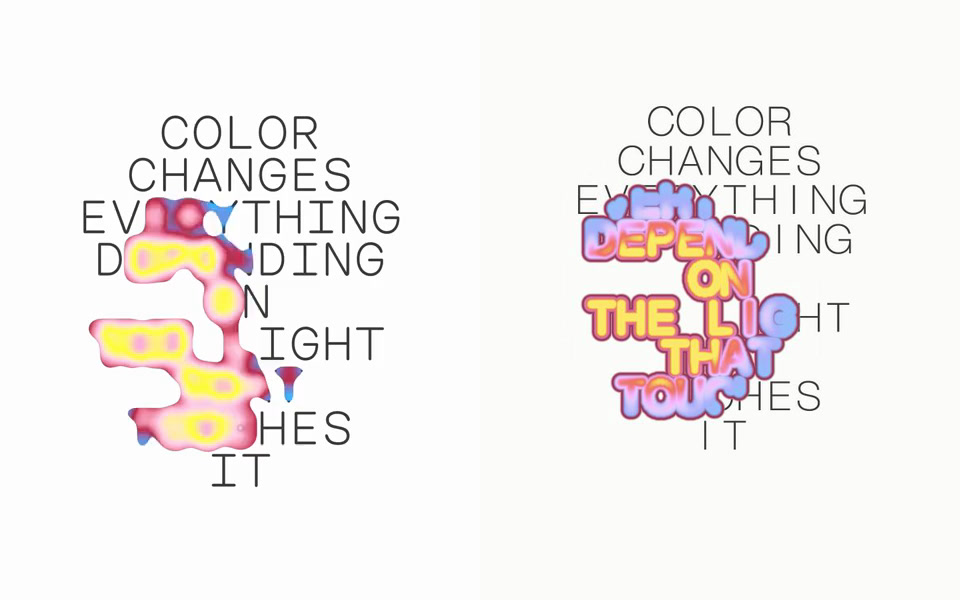
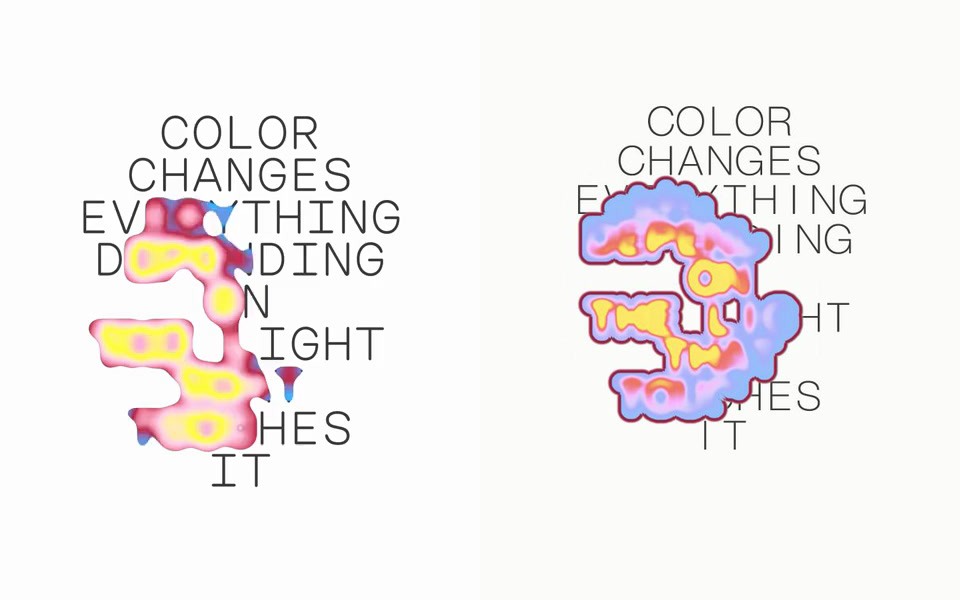
fix: diffuse light without revealing glyphs

Changed region(s): [[0.5938, 0.27, 0.8438, 0.72]]

diff --git a/pages/color-changes/script.ts b/pages/color-changes/script.ts
@@ -6,7 +6,7 @@ const ART_HEIGHT = 600;
 const TEXTURE_SCALE = 3;
 const FIELD_WIDTH = ART_WIDTH;
 const FIELD_HEIGHT = ART_HEIGHT;
-const COLOR_BLUR_TAPS = 8;
+const COLOR_BLUR_TAPS = 12;
 // Coverage stops at 10.2 artwork pixels, so a local 16→1 flood is sufficient.
 const JFA_JUMPS = [16, 8, 4, 2, 1, 1];
 const searchParams = new URLSearchParams(window.location.search);
@@ -27,9 +27,9 @@ const state = {
   radiusYBelow: 180,
   lightFalloff: 0.12,
   seedThreshold: 0.085,
-  bodyRadius: 10.2,
+  bodyRadius: 13.4,
   rimWidth: 3.6,
-  colorBlurSigma: 4.0,
+  colorBlurSigma: 6.0,
   colorBlurStep: 1.0,
   colorFloor: 0.055,
   colorRange: 0.64,
@@ -368,6 +368,16 @@ const finalMaterial = new THREE.ShaderMaterial({
       return fract(52.9829189 * fract(dot(pixel, vec2(0.06711056, 0.00583715))));
     }
 
+    float coverageAt(vec2 sampleUv) {
+      if (sampleUv.x < 0.0 || sampleUv.x > 1.0 || sampleUv.y < 0.0 || sampleUv.y > 1.0) {
+        return 0.0;
+      }
+      vec4 sampleNearest = texture2D(uNearest, sampleUv);
+      if (sampleNearest.a < 0.5) return 0.0;
+      float sampleDistance = length((sampleUv - sampleNearest.xy) * uArtSize);
+      return 1.0 - smoothstep(uBodyRadius - 1.1, uBodyRadius + 1.1, sampleDistance);
+    }
+
     void main() {
       vec2 fragment = vUv * uResolution;
       vec2 artUv = (fragment - uPosterOffset) / uPosterSize;
@@ -383,23 +393,31 @@ const finalMaterial = new THREE.ShaderMaterial({
       float coverage = 0.0;
       float rimMix = 0.0;
       float colorEnergy = 0.0;
+      float strokeDensity = 0.0;
       float distanceToStroke = uBodyRadius + 2.0;
 
       if (nearest.a > 0.5) {
         distanceToStroke = length((artUv - nearest.xy) * uArtSize);
         vec2 blurredField = texture2D(uColorField, artUv).rg;
         colorEnergy = blurredField.r / max(blurredField.g, 0.004);
+        strokeDensity = blurredField.g;
         float antialiasWidth = max(1.55, fwidth(distanceToStroke) * 1.28);
         coverage = 1.0 - smoothstep(
           uBodyRadius - antialiasWidth,
           uBodyRadius + antialiasWidth,
           distanceToStroke
         );
-        rimMix = smoothstep(
-          uBodyRadius - uRimWidth - antialiasWidth,
-          uBodyRadius - 0.35 * antialiasWidth,
-          distanceToStroke
-        );
+        vec2 rimStep = vec2(uRimWidth) / uArtSize;
+        float erodedCoverage = 1.0;
+        erodedCoverage = min(erodedCoverage, coverageAt(artUv + vec2( rimStep.x, 0.0)));
+        erodedCoverage = min(erodedCoverage, coverageAt(artUv + vec2(-rimStep.x, 0.0)));
+        erodedCoverage = min(erodedCoverage, coverageAt(artUv + vec2(0.0,  rimStep.y)));
+        erodedCoverage = min(erodedCoverage, coverageAt(artUv + vec2(0.0, -rimStep.y)));
+        erodedCoverage = min(erodedCoverage, coverageAt(artUv + vec2( rimStep.x,  rimStep.y) * 0.7071));
+        erodedCoverage = min(erodedCoverage, coverageAt(artUv + vec2(-rimStep.x,  rimStep.y) * 0.7071));
+        erodedCoverage = min(erodedCoverage, coverageAt(artUv + vec2( rimStep.x, -rimStep.y) * 0.7071));
+        erodedCoverage = min(erodedCoverage, coverageAt(artUv + vec2(-rimStep.x, -rimStep.y) * 0.7071));
+        rimMix = 1.0 - smoothstep(0.08, 0.92, erodedCoverage);
       }
 
       float visibleText = textMask * 0.92 * (1.0 - coverage);
@@ -412,9 +430,11 @@ const finalMaterial = new THREE.ShaderMaterial({
         0.0,
         1.0
       );
-      float strokeOffset = distanceToStroke / 5.2;
-      float strokeProximity = exp(-0.5 * strokeOffset * strokeOffset);
-      float transportedEnergy = normalizedEnergy * mix(0.18, 1.0, strokeProximity);
+      float strokeCarrier = smoothstep(0.025, 0.16, strokeDensity);
+      float fineOffset = distanceToStroke / 3.8;
+      float fineCarrier = exp(-0.5 * fineOffset * fineOffset);
+      float combinedCarrier = mix(strokeCarrier, fineCarrier, 0.16);
+      float transportedEnergy = normalizedEnergy * mix(0.22, 1.0, combinedCarrier);
       float bandProgress = smoothstep(0.02, 0.96, transportedEnergy);
       float hueOffset = mix(-0.25, uHueBands, bandProgress);
       float hue = fract(palettePhase + hueOffset);
@@ -558,7 +578,7 @@ function bindGui(): void {
   gui.add(state, 'rimWidth', 0.5, 6, 0.1).onChange((value: number) => {
     finalMaterial.uniforms.uRimWidth.value = value;
   });
-  gui.add(state, 'colorBlurSigma', 0.5, 7, 0.1).onChange((value: number) => {
+  gui.add(state, 'colorBlurSigma', 0.5, 12, 0.1).onChange((value: number) => {
     colorBlurMaterial.uniforms.uSigma.value = value;
   });
   gui.add(state, 'colorBlurStep', 0.5, 2, 0.05).onChange((value: number) => {

diff --git a/design-qa.md b/design-qa.md
@@ -10,6 +10,8 @@
   `pages/color-changes/qa/compare-distance-final.jpg`
 - Focused `Y`-junction evidence:
   `pages/color-changes/qa/y-stroke-distance-final.png`
+- User-reference legibility crop:
+  `pages/color-changes/qa/y-legibility-final.jpg`
 - Four-state motion evidence:
   `pages/color-changes/qa/motion-distance-final.jpg`
 - Route: `/pages/color-changes/?qa=1&qaX=0.37&qaY=0.458`
@@ -42,25 +44,28 @@ image therefore use the same crop, dimensions, and frozen palette state.
 - Baseline implementation evidence: thresholding one large Gaussian density
   accumulated neighboring stroke energy, enlarged intersections, exposed
   square density cells, and produced a cloudy center detached from the glyph.
-- Final implementation evidence: the focused `Y` crop shows the bright core
-  following the complete `Y` skeleton. Geometry comes from distance to the
-  nearest active glyph seed, with 1.55 px derivative antialiasing at the final
-  edge. No square texels or stepped contours remain at the native 480 × 600
-  output or in the DPR 2 browser capture.
+- Final implementation evidence: the focused `Y` crop has no isolated round
+  hotspot at the junction. Geometry still comes from distance to the nearest
+  active glyph seed, while the fine carrier adds only a directional bias inside
+  a broader low-frequency color field. The 1.55 px derivative antialiasing shows
+  no square texels or stepped contours at native output or in the DPR 2 capture.
 - The 1440 × 1800 text mask remains high resolution. The 480 × 600 half-float
   geometry field matches the native source resolution. A local 16 px jump flood
-  covers the 10.2 px body radius and receives a second one-pixel cleanup pass.
+  covers the 13.4 px body radius and receives a second one-pixel cleanup pass.
 
 ### Color and gradients
 
 - Result: passed.
 - Color is no longer derived from the silhouette density. A normalized field
-  separately blurs `activation × glyph` and `glyph`, divides them, and combines
-  the result with nearest-stroke distance.
-- This keeps yellow cores attached to glyph anatomy while allowing pale
-  pink/blue transitions and a dark cycling rim to remain smooth across merged
-  letters. Intersections no longer become hot merely because more glyph pixels
-  occupy the filter kernel.
+  separately blurs `activation × glyph` and `glyph`, divides them, and uses the
+  blurred glyph denominator as its main low-frequency carrier.
+- The six-pixel carrier merges individual character details before palette
+  mapping. Only 16% of the fine nearest-stroke signal remains, enough to preserve
+  directional junction behavior without making `THE`, `ON`, or `DEPENDING`
+  legible as thick colored typography.
+- The dark rim now comes from erosion of the union coverage, rather than from a
+  distance band around every seed. Internal seams between neighboring letters
+  therefore disappear while the outer silhouette and true holes retain a rim.
 - The charcoal underprint is fully occluded inside colored coverage, removing
   the previous comb-line interference.
 
@@ -112,8 +117,18 @@ image therefore use the same crop, dimensions, and frozen palette state.
    - Fix: require both query keys before enabling deterministic pointer lock;
      live movement and delayed cutoff were then recaptured in Chrome.
 5. Final comparison.
-   - No actionable P0, P1, or P2 mismatch remains for the requested
-     stroke-dependent geometry, smooth contours, gradient continuity, or delay.
+   - Finding after handoff — P1: nearest-stroke color modulation and a rim band
+     around every expansion preserved complete word shapes; the effect read as
+     a colored display font, while the reference obscures the source text.
+   - Fix: derive the rim from the union silhouette, raise body radius to 13.4 px,
+     and replace direct distance color with a six-pixel glyph-density carrier.
+6. Final legibility comparison.
+   - The colored region no longer exposes complete word shapes. Under the same
+     page segmentation mode, Tesseract previously recovered several affected
+     words including `DEPENDING`; the revised capture recovers only unaffected
+     top copy and fragments outside the colored coverage, not words inside it.
+   - No actionable P0, P1, or P2 mismatch remains for stroke-dependent geometry,
+     non-legible color diffusion, smooth contours, gradient continuity, or delay.
 
 ## Findings
 

diff --git a/pages/color-changes/spec.md b/pages/color-changes/spec.md
@@ -18,16 +18,19 @@
    one-pixel steps. Every artwork pixel now stores its nearest active glyph
    coordinate.
 5. Build the visible silhouette from the exact distance to that nearest glyph.
-   The body and rim therefore expand each stroke by a nearly constant width,
-   including through `Y` junctions, instead of accumulating a Gaussian hotspot
-   where multiple strokes meet.
+   The body expands each stroke by a nearly constant width, including through
+   `Y` junctions, instead of accumulating a Gaussian hotspot where multiple
+   strokes meet. Derive the dark rim by eroding the complete union silhouette;
+   this avoids outlining every character separately where neighboring expansions
+   overlap.
 6. Build color in a separate field. A small Gaussian filter blurs both
    `activation × glyph` and `glyph`; dividing the two produces a normalized
    energy value that stays smooth without making intersections brighter merely
    because more stroke pixels overlap the kernel.
-7. Combine normalized energy with distance to the nearest stroke. Yellow cores
-   stay attached to letter anatomy, while pale pink/blue transitions and the
-   darker rim expand outward from it.
+7. Drive the color core mostly from the six-pixel Gaussian glyph-density field,
+   with only a 16% fine nearest-stroke carrier. The low-frequency carrier keeps
+   the `Y` response directional but merges adjacent character details, so the
+   colored area reads as light/goo rather than as a thick display font.
 8. Fully occlude the charcoal underprint inside the colored coverage, add only
    sub-pixel dithering inside that coverage, and animate the palette over time.
 
@@ -60,9 +63,9 @@ implementation, which produced a round central blob at `Y` intersections.
   taper toward the vertical edges
 - Geometry/color field resolution: 480 × 600, half-float RGBA render targets
 - Nearest-stroke solver: local jump flooding from 16 px to 1 px plus one cleanup
-  pass (the visible body ends at 10.2 px, so distant propagation is unnecessary)
-- Stroke expansion radius: 10.2 px
+  pass (the complete sequence propagates farther than the visible body and rim)
+- Stroke expansion radius: 13.4 px
 - Rim width: 3.6 px with derivative-based antialiasing
-- Normalized color blur sigma: 4 px
+- Normalized color/glyph-density blur sigma: 6 px
 - Pointer maximum speed: 300 reference px/s
 - Activation attack/release: 55 ms / 340 ms
